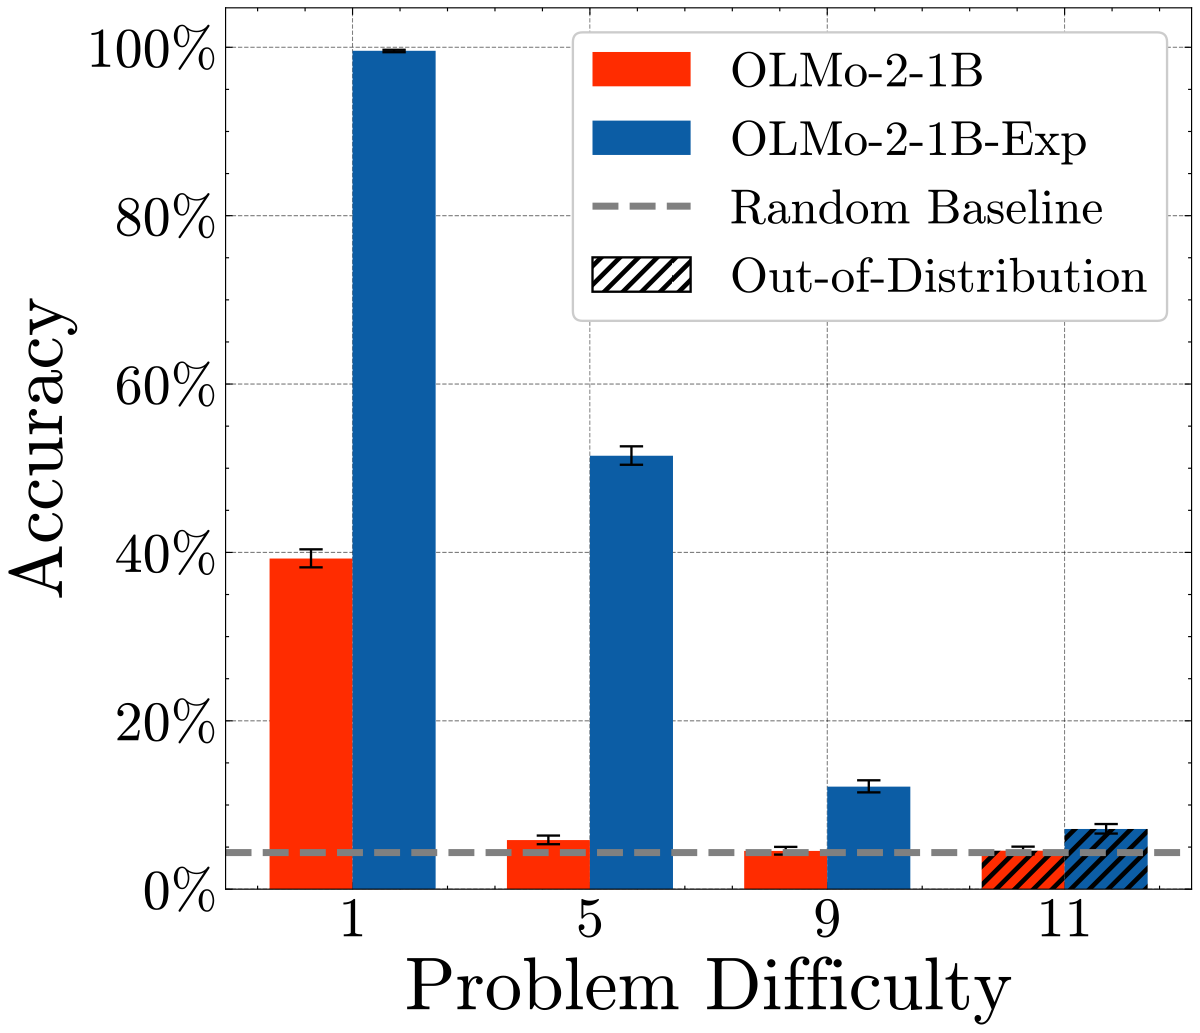
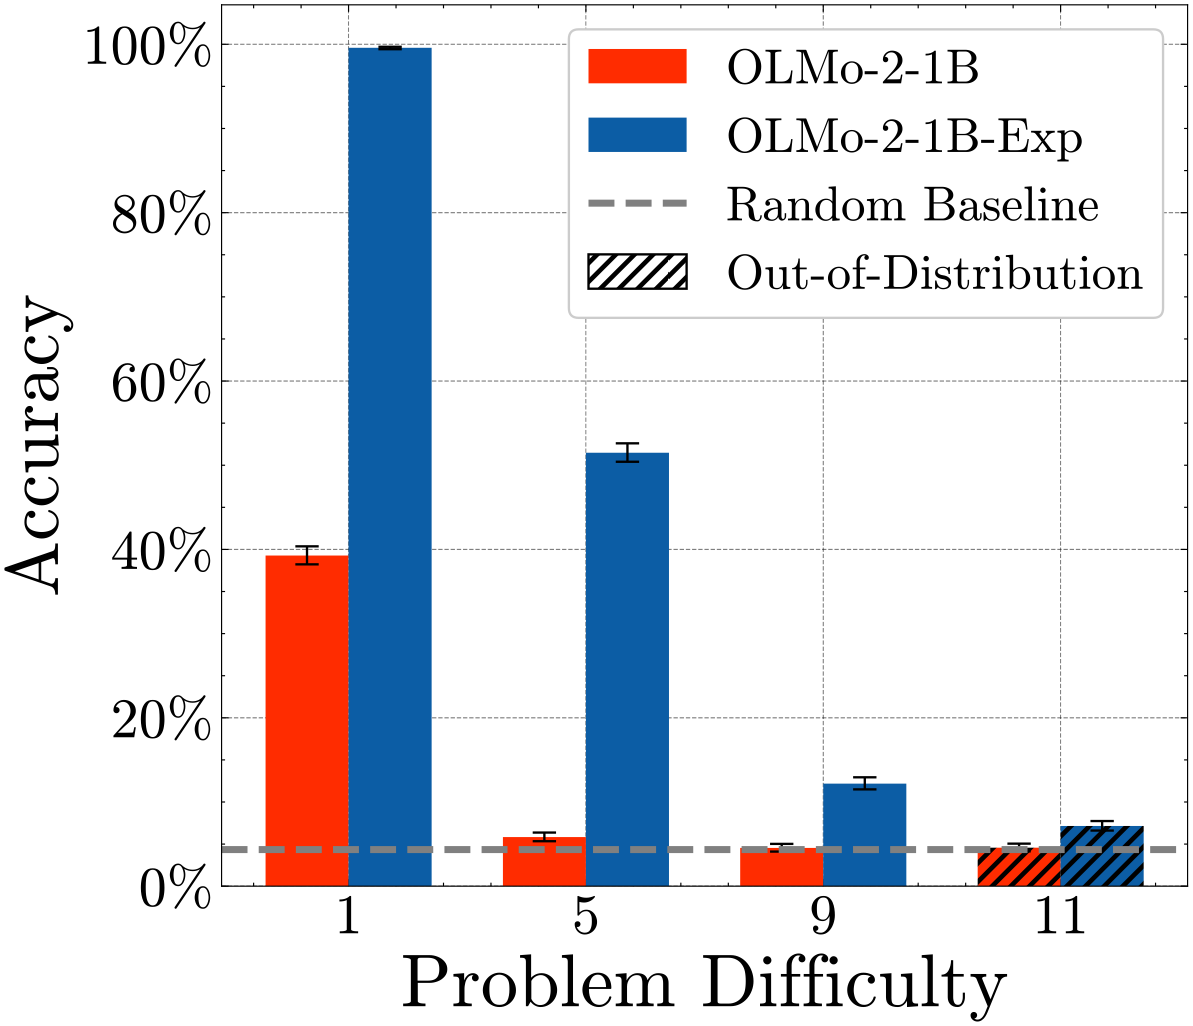
Trim white borders from figures, make teaser wider

diff --git a/index.html b/index.html
@@ -20,6 +20,7 @@
 
         /* --- Layout --- */
         .container { max-width: 900px; margin: 0 auto; padding: 0 24px; }
+        .container.wide { max-width: 1060px; }
 
         section { padding: 48px 0; }
         section.alt { background: #f5f5f5; }
@@ -205,8 +206,6 @@
         .fig-card img {
             width: 100%;
             border-radius: 4px;
-            border: 1px solid #e0e0e0;
-            background: #fff;
         }
         .fig-card .fig-caption {
             font-size: 0.85rem;
@@ -223,8 +222,6 @@
             max-width: 420px;
             width: 100%;
             border-radius: 4px;
-            border: 1px solid #e0e0e0;
-            background: #fff;
         }
 
         /* --- Section text --- */
@@ -321,7 +318,7 @@
 
 <!-- ====== Teaser ====== -->
 <section class="alt">
-    <div class="container">
+    <div class="container wide">
         <img class="teaser-img" src="static/images/teaser.png" alt="Teaser figure showing the Train Once, Answer All paradigm">
         <p class="caption"><strong>We propose to conduct multiple independent pretraining experiments in a single training run.</strong>
         <span style="color:#c19a6b;">Top:</span> Previous research performs one experiment per training run.
